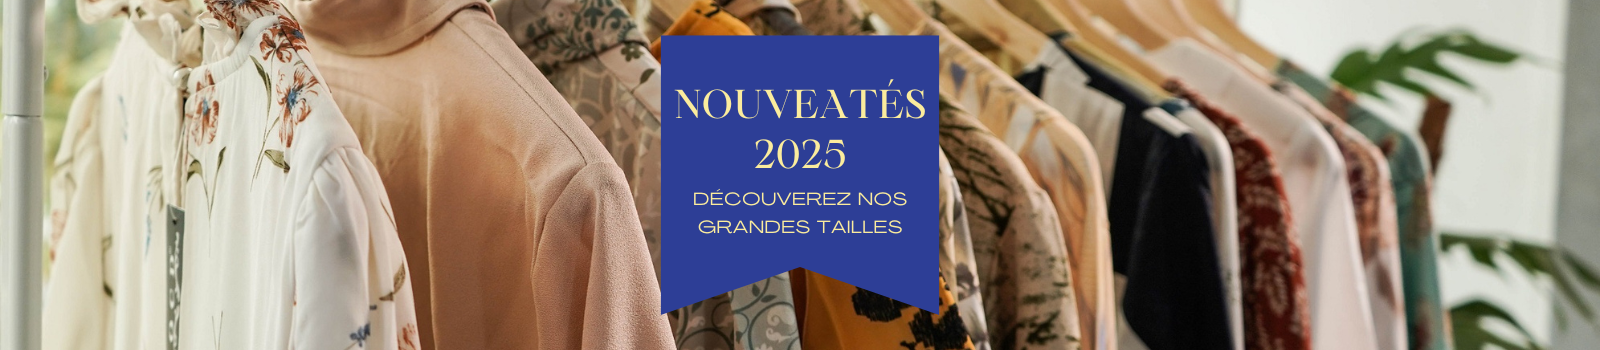
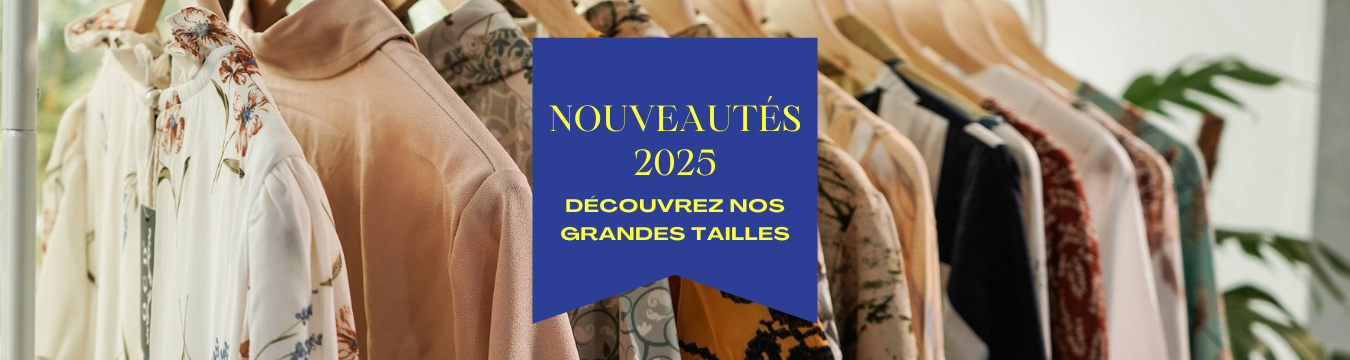
15JAN25COMMIT1

diff --git a/app/(withLayouts)/page.js b/app/(withLayouts)/page.js
@@ -177,105 +177,30 @@ export default async function Home() {
     <>
       <Box
         sx={{
-          display: {
-            xs: "none",
-            sm: "block",
-            // md: "block",
-            // lg: "block",
-          },
-          // width: "100%",
           width: "100vw",
-          //width: "1200",
-          // maxWidth: "1500px",
-          //  margin: "0 auto",
+          maxWidth: "1312px",
           textAlign: "left",
+          padding: 0,
+          paddingBottom: "4px",
+          margin: 0,
         }}
       >
         <Box
           sx={{
-            //maxHeight: '230px',
-            //height: "180px",
-            height: "350px",
+            height: "30vw !important",
             position: "relative",
-            marginBottom: "0 !important",
-            width: "100vw",
-            //
-            //textAlign: "center",
+            width: "100%",
           }}
         >
-          <Box
-            sx={{
-              height: "100%",
-              // overflow: 'hidden',
-              position: "relative",
-              width: "100vw",
-
-              marginBottom: "0 !important",
-              padding: 0,
-              margin: 0,
+          <Image
+            src="/bandimalamode.png"
+            alt="Image"
+            fill
+            priority
+            style={{
+              objectFit: "contain",
             }}
-          >
-            <Image
-              src="/bandimalamode.png"
-              alt="Image"
-              fill
-              priority
-              //sizes="(min-width: 1200px) 16vw, (min-width: 1083px) 20vw, (min-width: 900px) 25vw,(min-width: 600px) 33vw"
-              style={{
-                objectFit: "contain",
-                //padding: "10px 10px 10px 10px",
-              }}
-            />
-          </Box>
-        </Box>
-      </Box>
-      <Box
-        sx={{
-          display: { xs: "block", sm: "none" },
-          // width: "100%",
-          width: "100vw",
-          //width: "1200",
-          // maxWidth: "1500px",
-          //  margin: "0 auto",
-          textAlign: "left",
-        }}
-      >
-        <Box
-          sx={{
-            //maxHeight: '230px',
-            height: "110px",
-            //height: "600px",
-            position: "relative",
-            marginBottom: "0 !important",
-            width: "100vw",
-            //
-            //textAlign: "center",
-          }}
-        >
-          <Box
-            sx={{
-              height: "100%",
-              // overflow: 'hidden',
-              position: "relative",
-              width: "100vw",
-
-              marginBottom: "0 !important",
-              padding: 0,
-              margin: 0,
-            }}
-          >
-            <Image
-              src="/bandimalamode.png"
-              alt="Image"
-              fill
-              priority
-              //sizes="(min-width: 1200px) 16vw, (min-width: 1083px) 20vw, (min-width: 900px) 25vw,(min-width: 600px) 33vw"
-              style={{
-                objectFit: "contain",
-                //padding: "10px 10px 10px 10px",
-              }}
-            />
-          </Box>
+          />
         </Box>
       </Box>
       <Box
@@ -285,7 +210,7 @@ export default async function Home() {
           marginRight: "32px",
           maxWidth: "1248px",
           marginBottom: "64px",
-          marginTop: "32px",
+          marginTop: "4px",
           width: "100%",
           height: "100%",
         }}
@@ -408,7 +333,7 @@ export default async function Home() {
           marginRight: "32px",
           maxWidth: "1248px",
           marginBottom: "64px",
-          marginTop: "32px",
+          marginTop: "8px",
           width: "100%",
           height: "100%",
         }}

diff --git a/app/(withLayouts)/layout.js b/app/(withLayouts)/layout.js
@@ -9,9 +9,53 @@ import { AppRouterCacheProvider } from "@mui/material-nextjs/v14-appRouter";
 import { ThemeProvider } from "@mui/material/styles";
 import CssBaseline from "@mui/material/CssBaseline";
 
-export const metadata = {
+/*export const metadata = {
   title: "Create Next App",
   description: "Generated by create next app",
+};*/
+
+export const metadata = {
+  title: "Vêtements de Qualité pour Toute la Famille - Mode en Ligne",
+  description:
+    "Découvrez notre boutique en ligne dédiée aux vêtements de qualité pour adultes et enfants. Une large gamme de prêt-à-porter pour tous les styles et occasions. Style, confort et accessibilité au rendez-vous.",
+  keywords: [
+    "Vêtements de sport",
+    "Pantalons de sport",
+    "Manteaux et vestes",
+    "Sweats, vestes à capuches",
+    "Survêtements, ensembles",
+    "Veste de sport",
+    "Capuches",
+    "Pyjamas",
+    "Vêtements pour femme",
+    "Vêtements pour homme",
+    "Vêtements pour fille",
+    "Vêtements pour garçon",
+    "Vêtements Grandes taille pour femme",
+    "Vêtements Grandes taille pour homme",
+    "Tuniques ensembles pour femme",
+    "Doudonnes pour homme",
+    "vêtements en ligne",
+    "prêt-à-porter",
+    "mode adulte",
+    "mode enfant",
+    "vêtements confortables",
+    "style intemporel",
+    "vêtements tendance",
+    "mode accessible",
+  ],
+  icons: {
+    icon: "/favicdimalamode.png",
+  },
+  authors: {
+    name: "DimaLamode",
+    url: "https://www.dimalamode.com",
+  },
+
+  robots: {
+    index: true,
+    follow: true,
+  },
 };
 
 export default function RootLayout(props) {

diff --git a/components/ShowProductList/ProductListMobile/PrdListXs2.js b/components/ShowProductList/ProductListMobile/PrdListXs2.js
@@ -312,7 +312,7 @@ export const PrdListXs2 = ({
           }}
         >
           <Box
-            component="h2"
+            // component="h2"
             sx={{
               paddingBottom: 0,
               fontSize: "20px",
